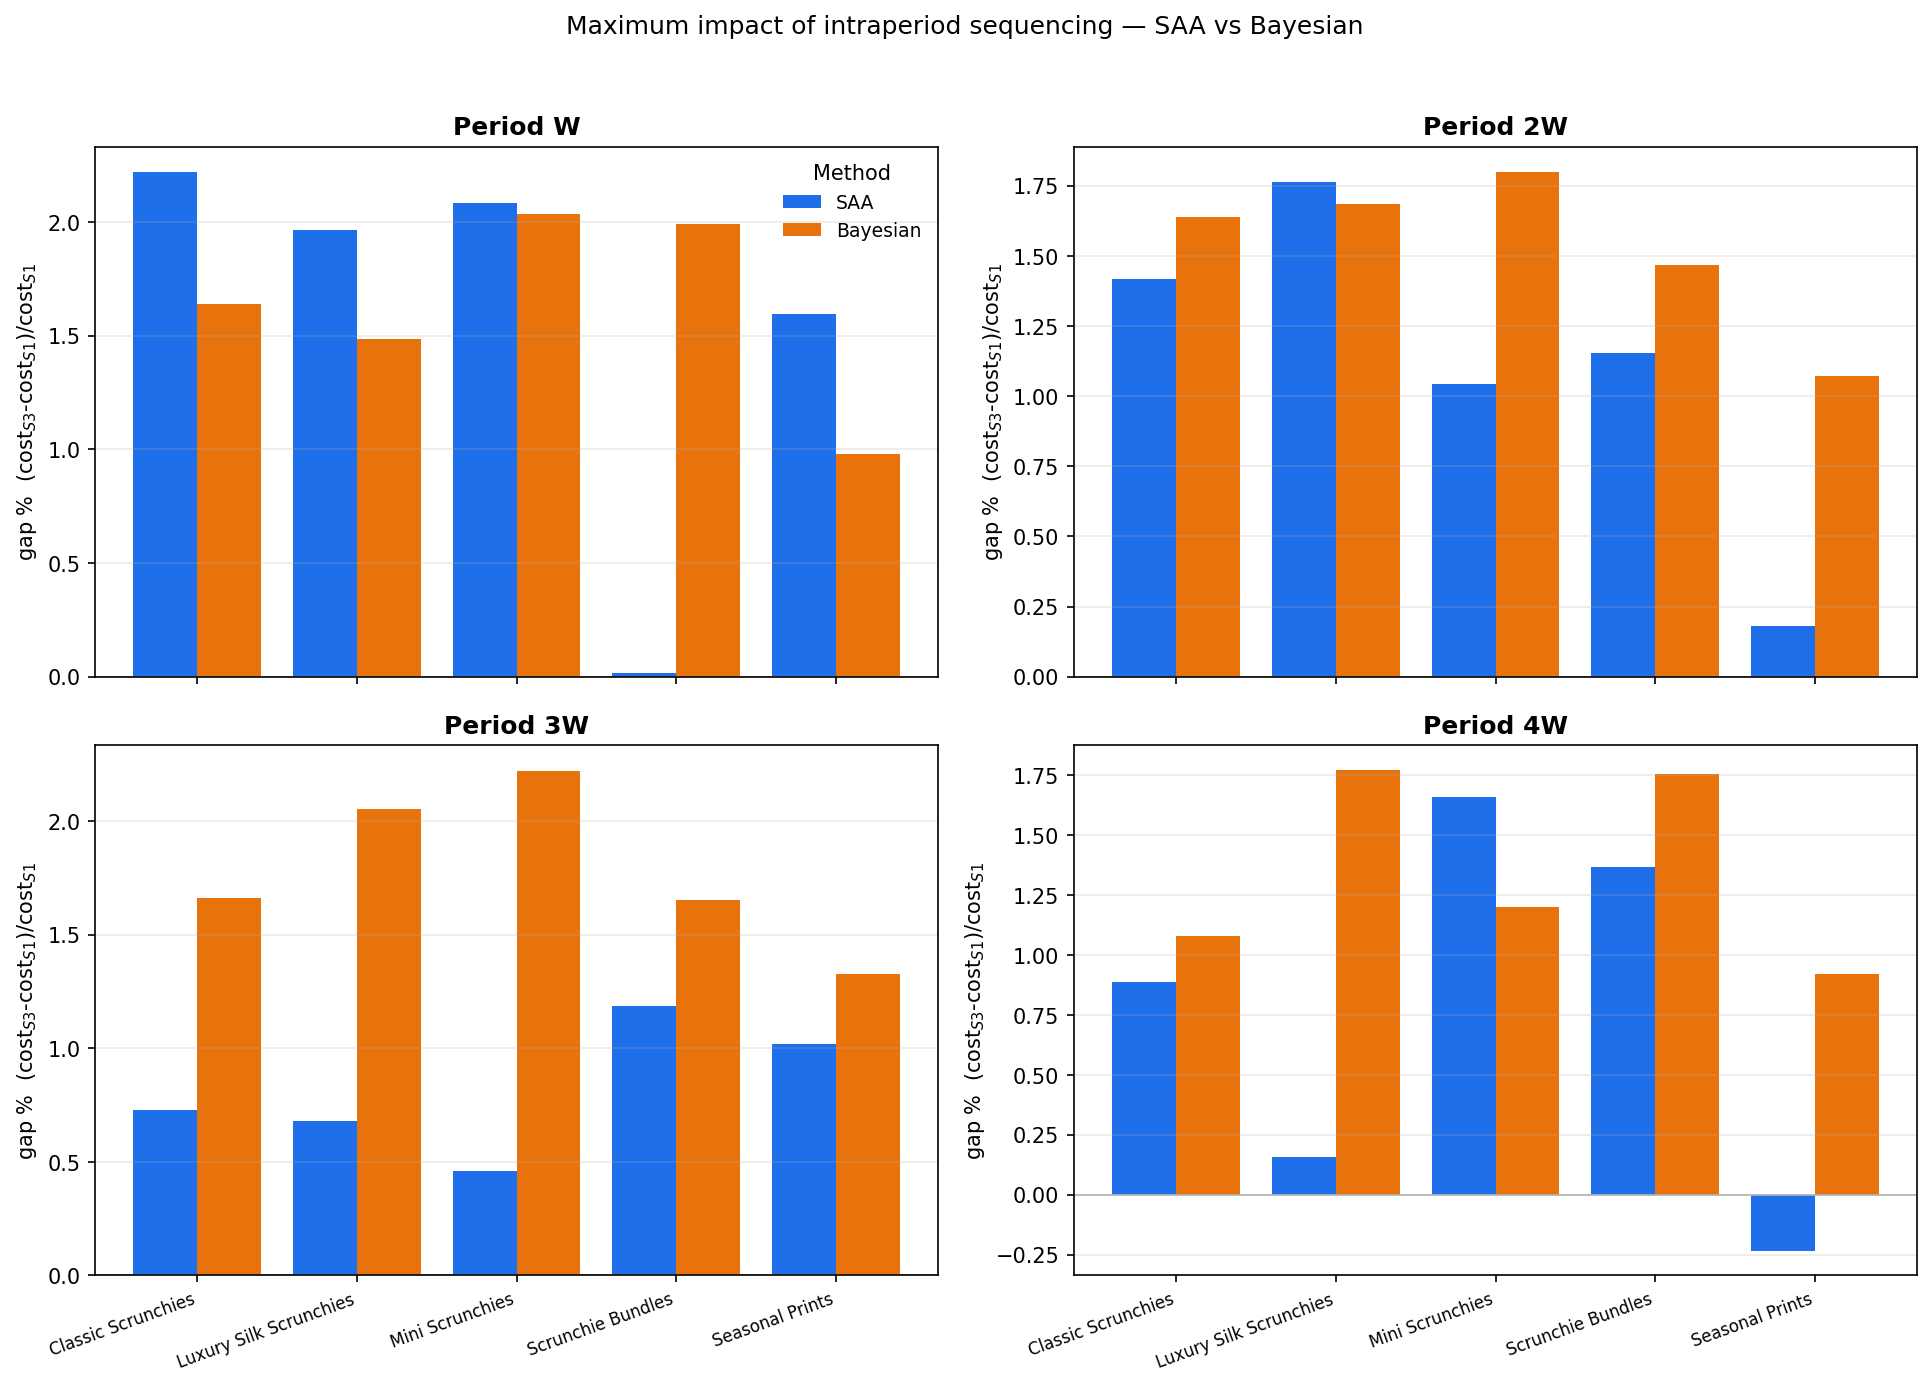
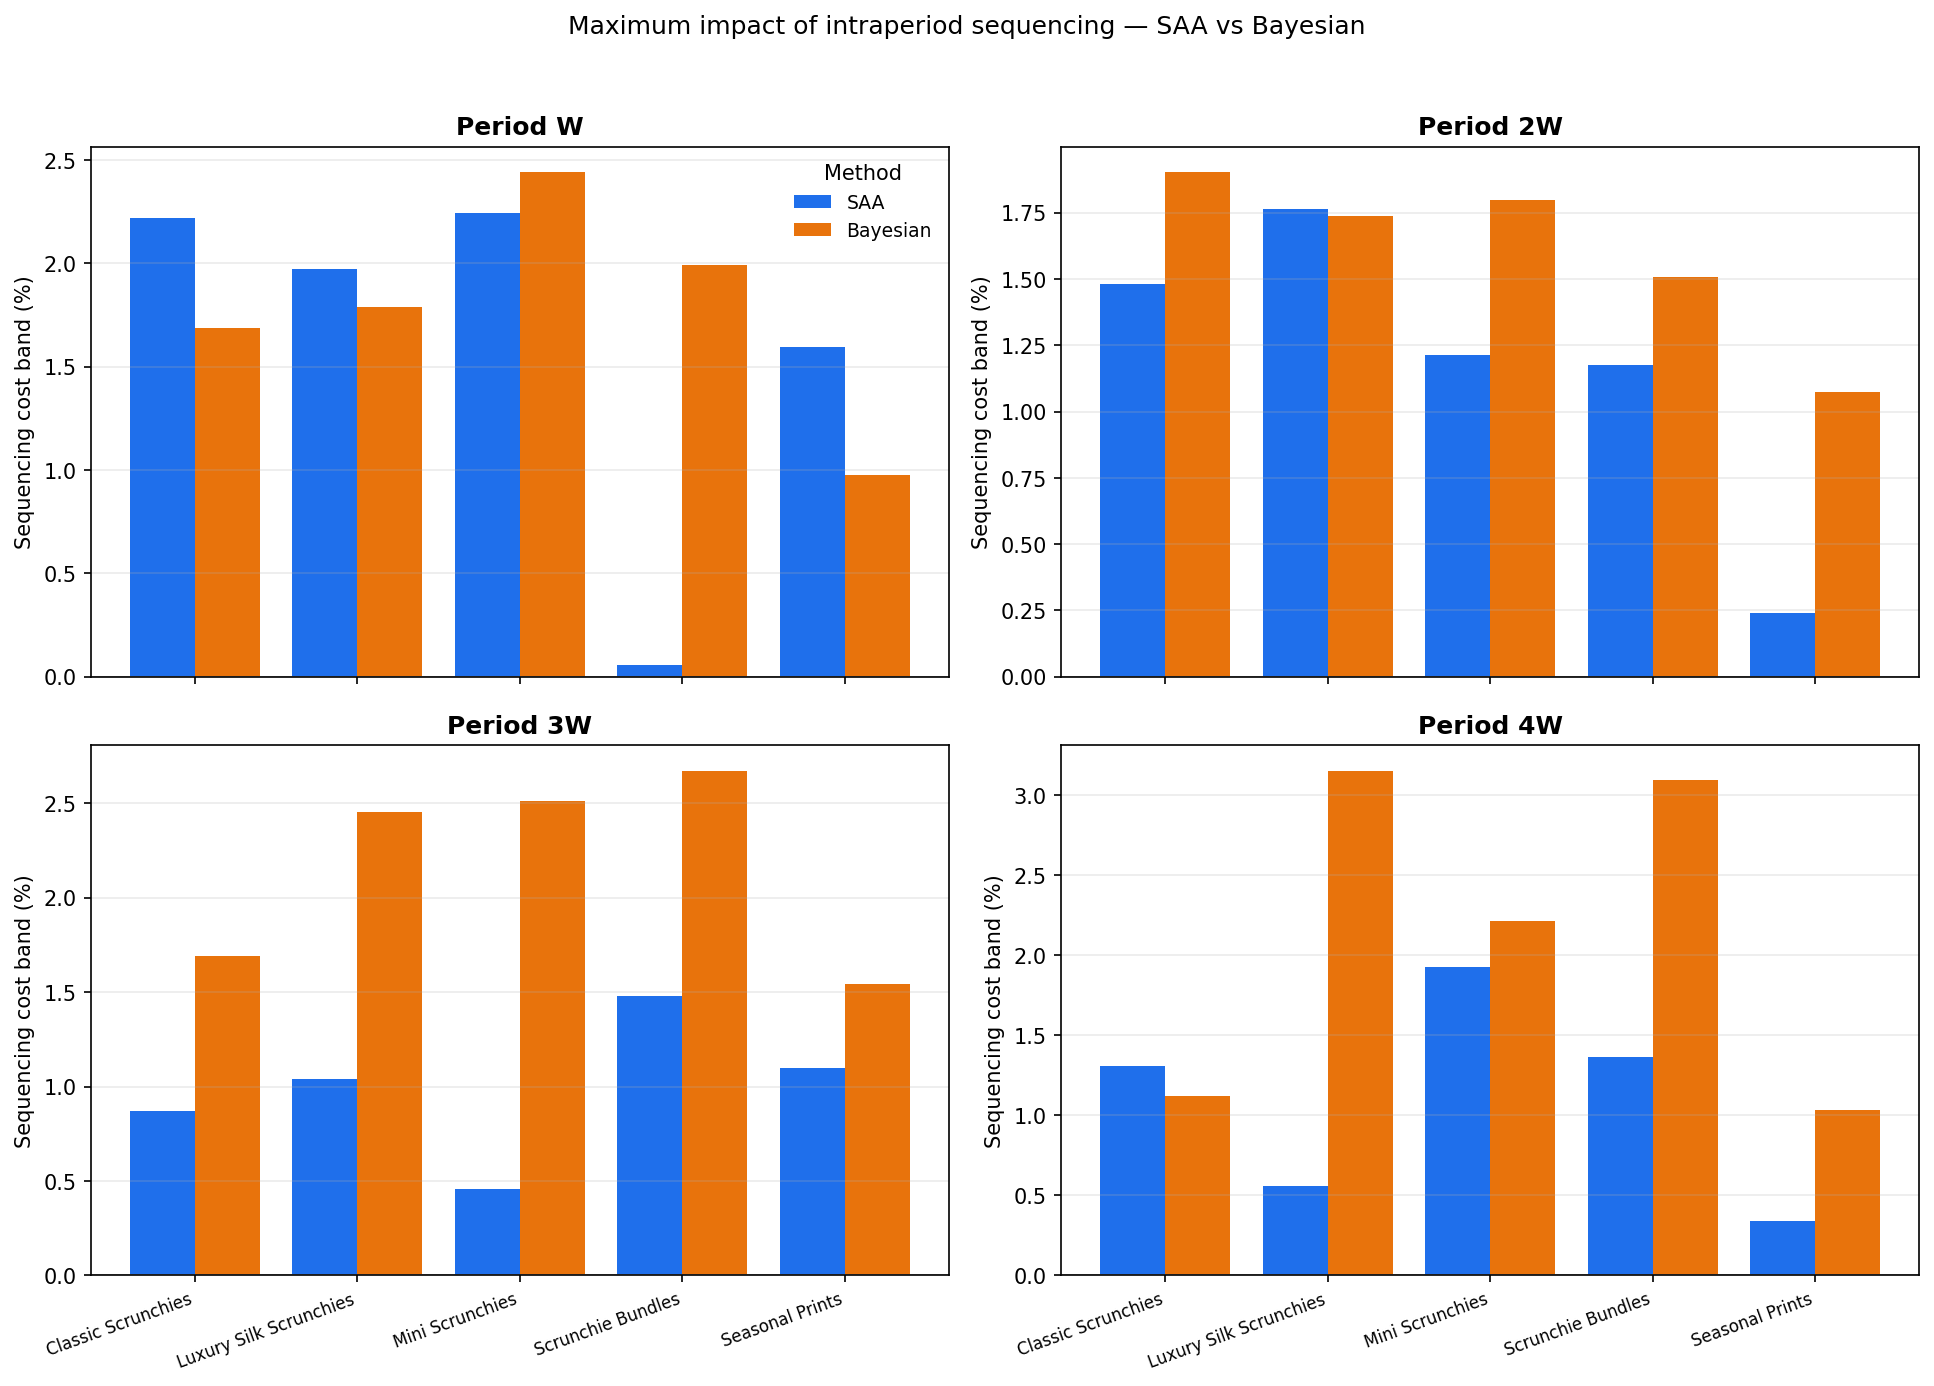
getting rid of the negative numbers in comparison.py.

diff --git a/src/comparison.py b/src/comparison.py
@@ -249,8 +249,12 @@ def sequencing_importance(periods=("W", "2W", "3W", "4W"),
 
     Reports per method (PRIMITIVE ratio: cu=p+g-c, co=c-s):
       cost_S1, cost_S4, cost_S3
-      gap_pct  = (cost_S3 - cost_S1)/cost_S1 * 100   (max impact)
-      S4_pos   = (cost_S4 - cost_S1)/(cost_S3 - cost_S1)  (0=best, 1=worst)
+      gap_pct     = (max{cost_S1,cost_S4,cost_S3}
+               - min{cost_S1,cost_S4,cost_S3})
+              / min{cost_S1,cost_S4,cost_S3} * 100
+
+      S4_cost_pos = relative position of cost_S4 inside this cost band    
+              (0 = lowest cost among the three rules, 1 = highest)
     """
     from data_analysis import order_items_clean, returns_clean
     rows = []
@@ -281,20 +285,33 @@ def sequencing_importance(periods=("W", "2W", "3W", "4W"),
                             posteriors=post).flatten()
                     Q = float(np.quantile(f, a))
                     costs[rule] = _cost(Q, f, p, c, s_, g)
-                denom = costs["S3"] - costs["S1"]
+                                # Nonnegative sequencing cost band.
+                # We do NOT assume cost_S3 >= cost_S1, because each rule is
+                # optimized under its own induced net-demand distribution.
+                cost_values = np.array([costs["S1"], costs["S4"], costs["S3"]],
+                                       dtype=float)
+
+                c_min = float(cost_values.min())
+                c_max = float(cost_values.max())
+                band = c_max - c_min
+
+                gap_pct = 100 * band / c_min if c_min > 1e-12 else np.nan
+                s4_cost_pos = ((costs["S4"] - c_min) / band
+                               if band > 1e-12 else np.nan)
+
                 rows.append({
                     "period": period, "category": cat, "method": method,
                     "rk": round(rk, 4),
                     "cost_S1": round(costs["S1"], 4),
                     "cost_S4": round(costs["S4"], 4),
                     "cost_S3": round(costs["S3"], 4),
-                    "gap_pct": round(100 * denom / costs["S1"], 3),
-                    "S4_pos": round((costs["S4"] - costs["S1"]) / denom, 3)
-                              if abs(denom) > 1e-9 else np.nan,
+                    "gap_pct": round(gap_pct, 3),
+                    "S4_cost_pos": round(s4_cost_pos, 3)
+                                   if np.isfinite(s4_cost_pos) else np.nan,
                 })
                 if verbose:
-                    print(f"[{period}|{cat}|{method}] gap={rows[-1]['gap_pct']:.2f}%  "
-                          f"S4_pos={rows[-1]['S4_pos']}")
+                    print(f"[{period}|{cat}|{method}] band={rows[-1]['gap_pct']:.2f}%  "
+                          f"S4_cost_pos={rows[-1]['S4_cost_pos']}")
     return pd.DataFrame(rows)
 
 
@@ -321,6 +338,6 @@ if __name__ == "__main__":
     print("=" * 60)
     seq = sequencing_importance(g=8.0, J=2000)
     seq.to_csv(OUT / "sequencing_importance.csv", index=False)
-    print("\nMax sequencing impact (gap_pct = (cost_S3-cost_S1)/cost_S1):")
+    print("\nMax sequencing impact (gap_pct = normalized max-min cost band):")
     print(seq.groupby("period")["gap_pct"].agg(["mean", "max"]).round(2).to_string())
     print(f"\nSaved -> {OUT/'sequencing_importance.csv'}")

diff --git a/src/visualization.py b/src/visualization.py
@@ -187,7 +187,7 @@ def fig_sequencing(seq, out_path):
         ax.axhline(0, color="0.7", linewidth=0.8)
         ax.set_title(f"Period {period}", fontsize=12, fontweight="bold")
         ax.set_xticks(x); ax.set_xticklabels(cats, rotation=20, ha="right", fontsize=8)
-        ax.set_ylabel("gap %  (cost$_{S3}$-cost$_{S1}$)/cost$_{S1}$")
+        ax.set_ylabel(r"Sequencing cost band (%)")
         ax.grid(True, axis="y", alpha=0.25)
     if has_method:
         axes[0].legend(frameon=False, fontsize=9, title="Method")
